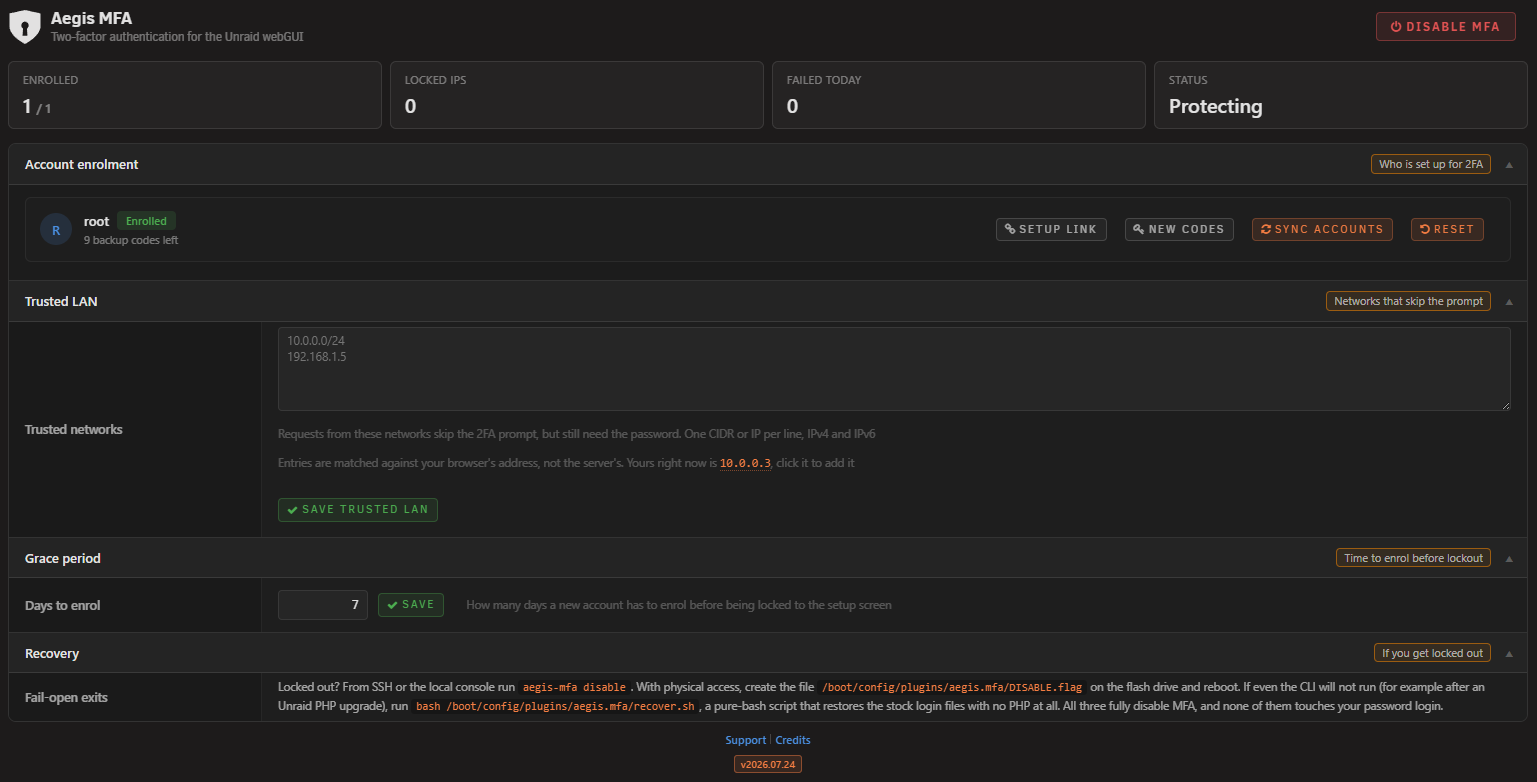
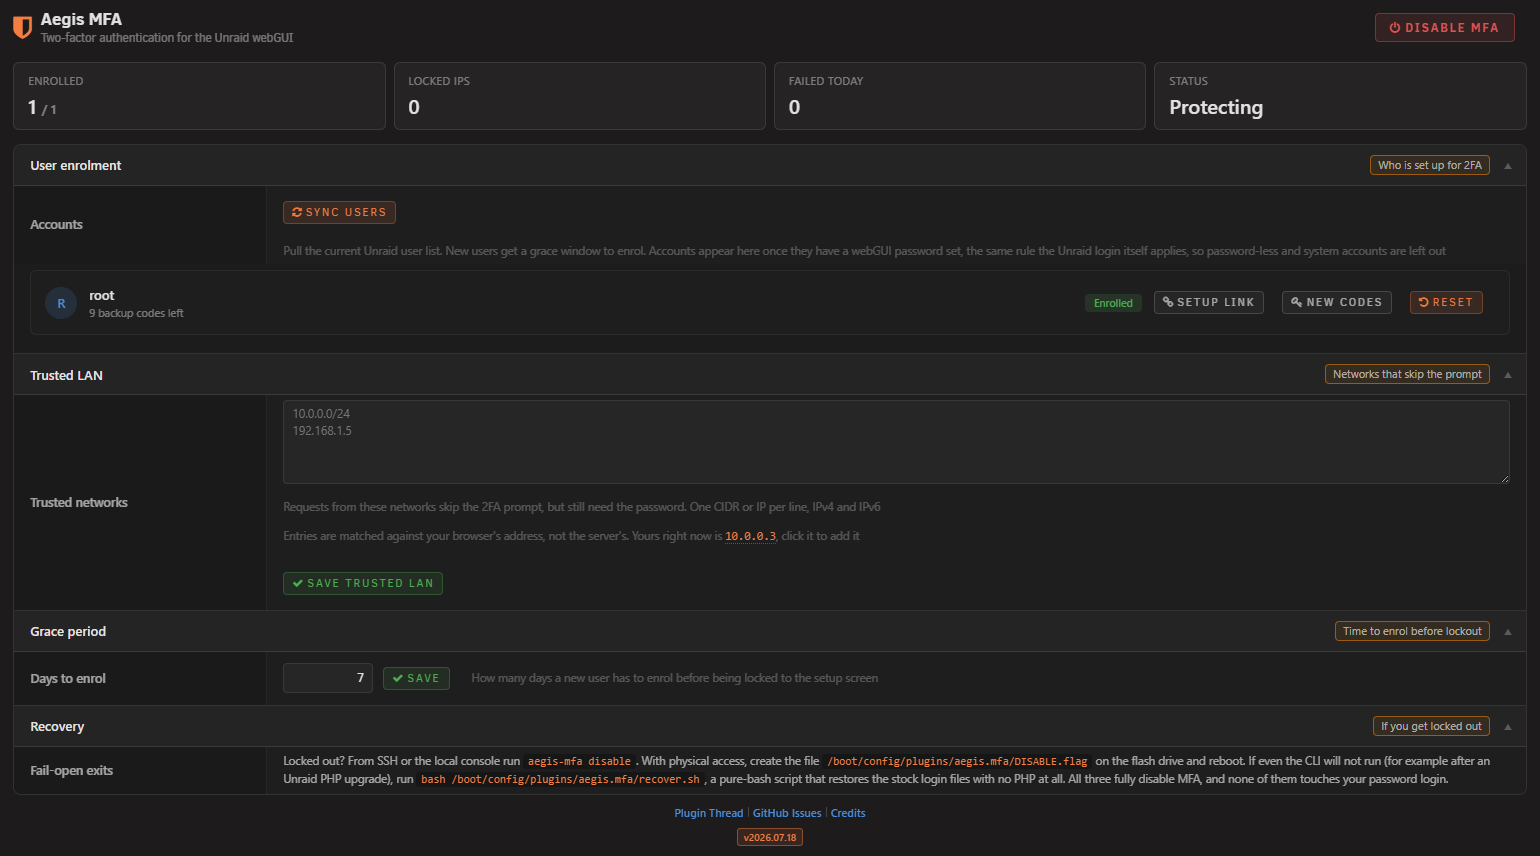
v2026.07.25

diff --git a/source/js/aegis-mfa-header.js b/source/js/aegis-mfa-header.js
@@ -22,21 +22,29 @@ function AegisMfaIcon(){
         var img = link.querySelector('img, b.system, i.system, b.fa');
         if(img){
             var svg = document.createElementNS('http://www.w3.org/2000/svg','svg');
-            svg.setAttribute('width','16');
-            svg.setAttribute('height','16');
-            svg.setAttribute('viewBox','0 0 385 421');
+            svg.setAttribute('width','14');
+            svg.setAttribute('height','14');
+            svg.setAttribute('viewBox','-20 -20 425 461');
             svg.setAttribute('class','system');
 
-            // the keyhole shield, the plugin logo as a filled glyph
+            // the keyhole shield as line art, thin shell with a filled keyhole
             var g = document.createElementNS('http://www.w3.org/2000/svg','g');
             g.setAttribute('transform','translate(0,421) scale(0.1,-0.1)');
-            var p = document.createElementNS('http://www.w3.org/2000/svg','path');
-            p.setAttribute('d','M963 3996 l-963 -211 0 -845 c0 -936 1 -953 61 -1145 120 -381 447 -804 904 -1170 339 -272 892 -617 990 -618 12 0 279 169 550 348 660 437 1119 955 1273 1437 68 213 72 272 72 1195 l0 798 -882 193 c-486 106 -919 201 -963 211 l-80 17 -962 -210z m1070 -1241 c364 -95 475 -525 204 -788 l-70 -69 27 -381 c15 -210 29 -408 33 -439 l6 -58 -308 0 -308 0 6 58 c4 31 18 229 33 439 l27 381 -70 69 c-343 333 -37 907 420 788z');
-            g.appendChild(p);
+            var shell = document.createElementNS('http://www.w3.org/2000/svg','path');
+            shell.setAttribute('d','M963 3996 l-963 -211 0 -845 c0 -936 1 -953 61 -1145 120 -381 447 -804 904 -1170 339 -272 892 -617 990 -618 12 0 279 169 550 348 660 437 1119 955 1273 1437 68 213 72 272 72 1195 l0 798 -882 193 c-486 106 -919 201 -963 211 l-80 17 -962 -210z');
+            shell.setAttribute('fill','none');
+            shell.setAttribute('stroke-width','360');
+            shell.setAttribute('stroke-linejoin','round');
+            var hole = document.createElementNS('http://www.w3.org/2000/svg','path');
+            hole.setAttribute('d','M2033 2755 c364 -95 475 -525 204 -788 l-70 -69 27 -381 c15 -210 29 -408 33 -439 l6 -58 -308 0 -308 0 6 58 c4 31 18 229 33 439 l27 381 -70 69 c-343 333 -37 907 420 788z');
+            hole.setAttribute('stroke','none');
+            g.appendChild(shell);
+            g.appendChild(hole);
             svg.appendChild(g);
             img.parentNode.replaceChild(svg, img);
 
-            var iconColor = getComputedStyle(link).color || '#ccc';  // tint the glyph to match the navbar text colour
+            var iconColor = getComputedStyle(link).color || '#ccc';  // shell takes the stroke, hole takes the fill
+            svg.setAttribute('stroke', iconColor);
             svg.setAttribute('fill', iconColor);
         }
     }

diff --git a/source/aegis-mfa.css b/source/aegis-mfa.css
@@ -71,6 +71,7 @@
   --amfa-ctrl-hover:     #aab0b8;
 
   --amfa-green:          #2e7d32;
+  --amfa-blue:           #1565c0;
 }
 
 .amfa-theme-azure {
@@ -279,6 +280,8 @@
 }
 .amfa-light .amfa-r-danger,
 .amfa-theme-azure .amfa-r-danger { color: #c62828; }
+.amfa-light .amfa-r-desc--warn,
+.amfa-theme-azure .amfa-r-desc--warn { color: #a06400; }
 
 .amfa-r-warn {
   font-size: 11px;
@@ -473,6 +476,7 @@
   background: rgba(76,175,80,.2) !important;
   border-color: rgba(76,175,80,.5) !important;
 }
+.amfa-light .amfa-action-btn--apply { color: var(--amfa-green) !important; }
 
 .amfa-action-btn--reset {
   background: rgba(244,125,66,.12) !important;
@@ -532,6 +536,8 @@
   text-decoration: none !important;
   outline: none;
 }
+.amfa-light .amfa-footer-link:hover,
+.amfa-light .amfa-footer-link:focus { color: #0d47a1; }
 
 .amfa-footer-sep {
   display: inline-block;
@@ -1062,6 +1068,7 @@
   color: #e05252 !important;
 }
 .amfa-power-btn.on:hover  { background: rgba(224,82,82,.2) !important; border-color: rgba(224,82,82,.6) !important; }
+.amfa-light .amfa-power-btn.on { color: #c62828 !important; }
 .amfa-power-btn.off {
   background: rgba(76,175,80,.12) !important;
   border: 1px solid rgba(76,175,80,.4) !important;
@@ -1183,6 +1190,7 @@
 .amfa-badge.pending  { background: rgba(244,125,66,.15); color: var(--amfa-accent); }
 .amfa-badge.locked   { background: rgba(224,82,82,.15);  color: #e05252; }
 .amfa-badge.none     { background: rgba(128,128,128,.15); color: var(--amfa-c-text-muted); }
+.amfa-light .amfa-badge.locked { color: #c62828; }
 
 /* per-user action buttons */
 .amfa-user-btns { display: inline-flex; gap: 6px; flex-wrap: wrap; }

diff --git a/README.md b/README.md
@@ -1,14 +1,11 @@
 # Aegis MFA for Unraid
 
-Two-factor authentication for the Unraid webGUI. 
-After your password, enter a 6-digit code from any authenticator app. 
-Backup codes, a trusted LAN bypass, and lockout protection. It protects root, the only account the Unraid webGUI accepts.
+Two-factor authentication for the Unraid webGUI. After your password, enter a 6-digit code from any authenticator app. Backup codes, a trusted LAN bypass, and lockout protection. It protects root, the only account the Unraid webGUI accepts.
 
 <p align="center">
   <img src="https://img.shields.io/github/v/release/Lazaros-Chalkidis/unraid-aegis-mfa?label=Latest%20Version&color=blue" style="margin: 4px;" />&nbsp;
   <img src="https://img.shields.io/github/last-commit/Lazaros-Chalkidis/unraid-aegis-mfa?label=Last%20Update" style="margin: 4px;" />&nbsp;
   <img src="https://img.shields.io/github/issues/Lazaros-Chalkidis/unraid-aegis-mfa?label=Issues" style="margin: 4px;" />&nbsp;
-  <img src="https://img.shields.io/github/downloads/Lazaros-Chalkidis/unraid-aegis-mfa/total?label=Downloads&color=brightgreen" style="margin: 4px;" />&nbsp;
   <img src="https://img.shields.io/github/license/Lazaros-Chalkidis/unraid-aegis-mfa?label=License" style="margin: 4px;" />
 </p>
 

diff --git a/CHANGELOG.md b/CHANGELOG.md
@@ -1,9 +1,15 @@
 
 # Aegis MFA
 
+## Version 2026.07.25
+
+### Improvements
+- The shield icon is drawn as a thin outline with a filled keyhole, in the header, on the settings page, in the Plugins list and in the CA artwork, which stays blue
+- White and azure get darker overrides for the warning, locked, power, apply and link colours that were hard to read on light backgrounds
+
 ## Version 2026.07.24
 
-### Fixed
+### Improvements
 - Wording changes for clearer phrasing
 
 ## Version 2026.07.21
